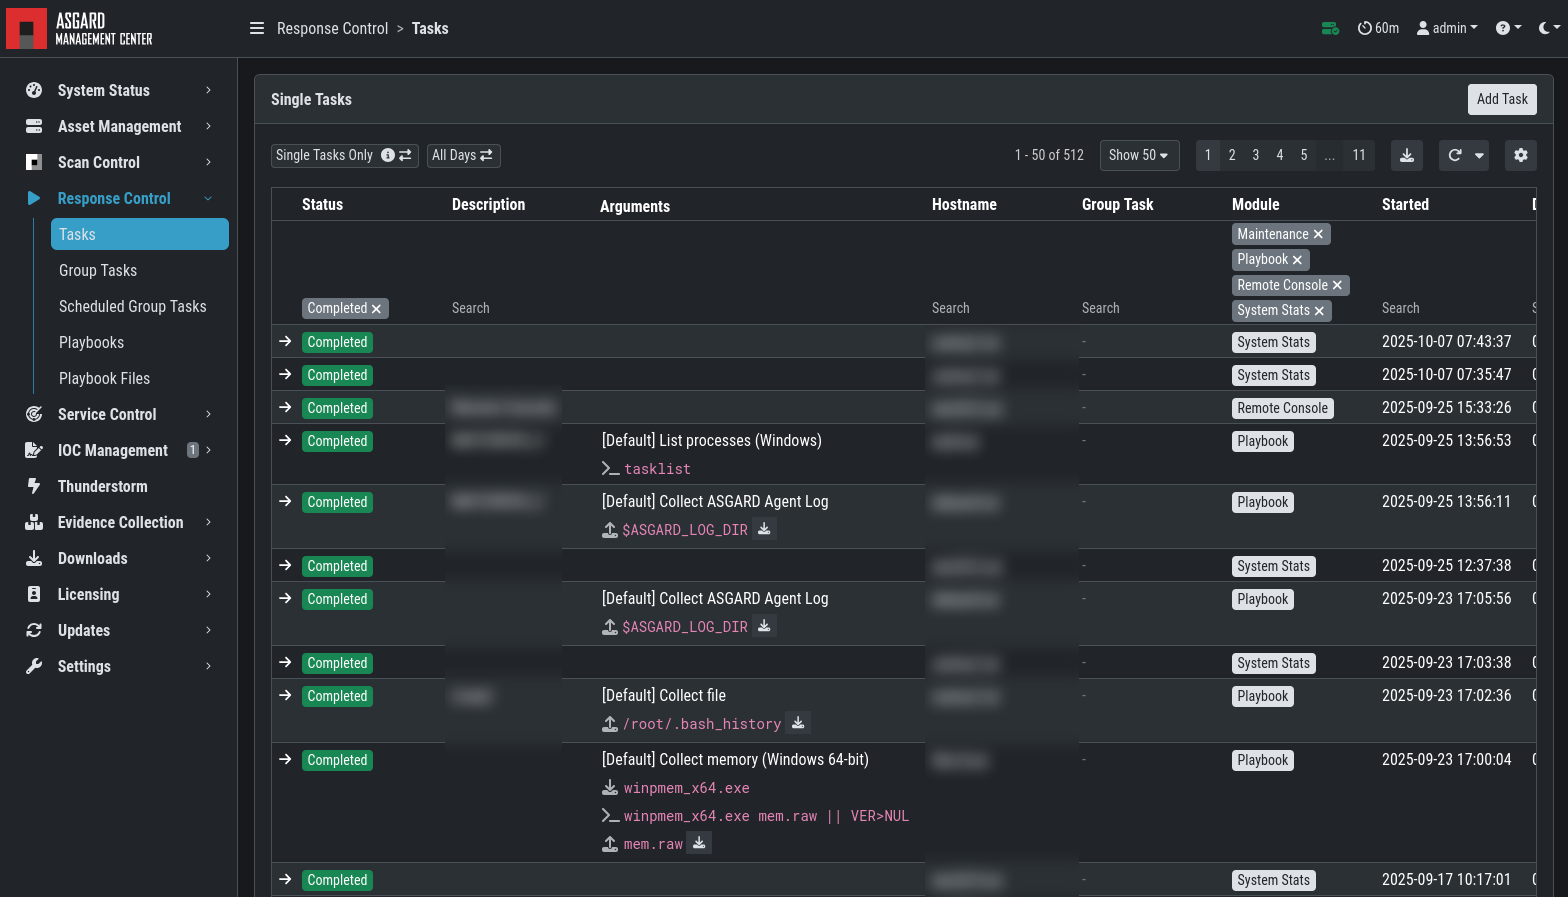
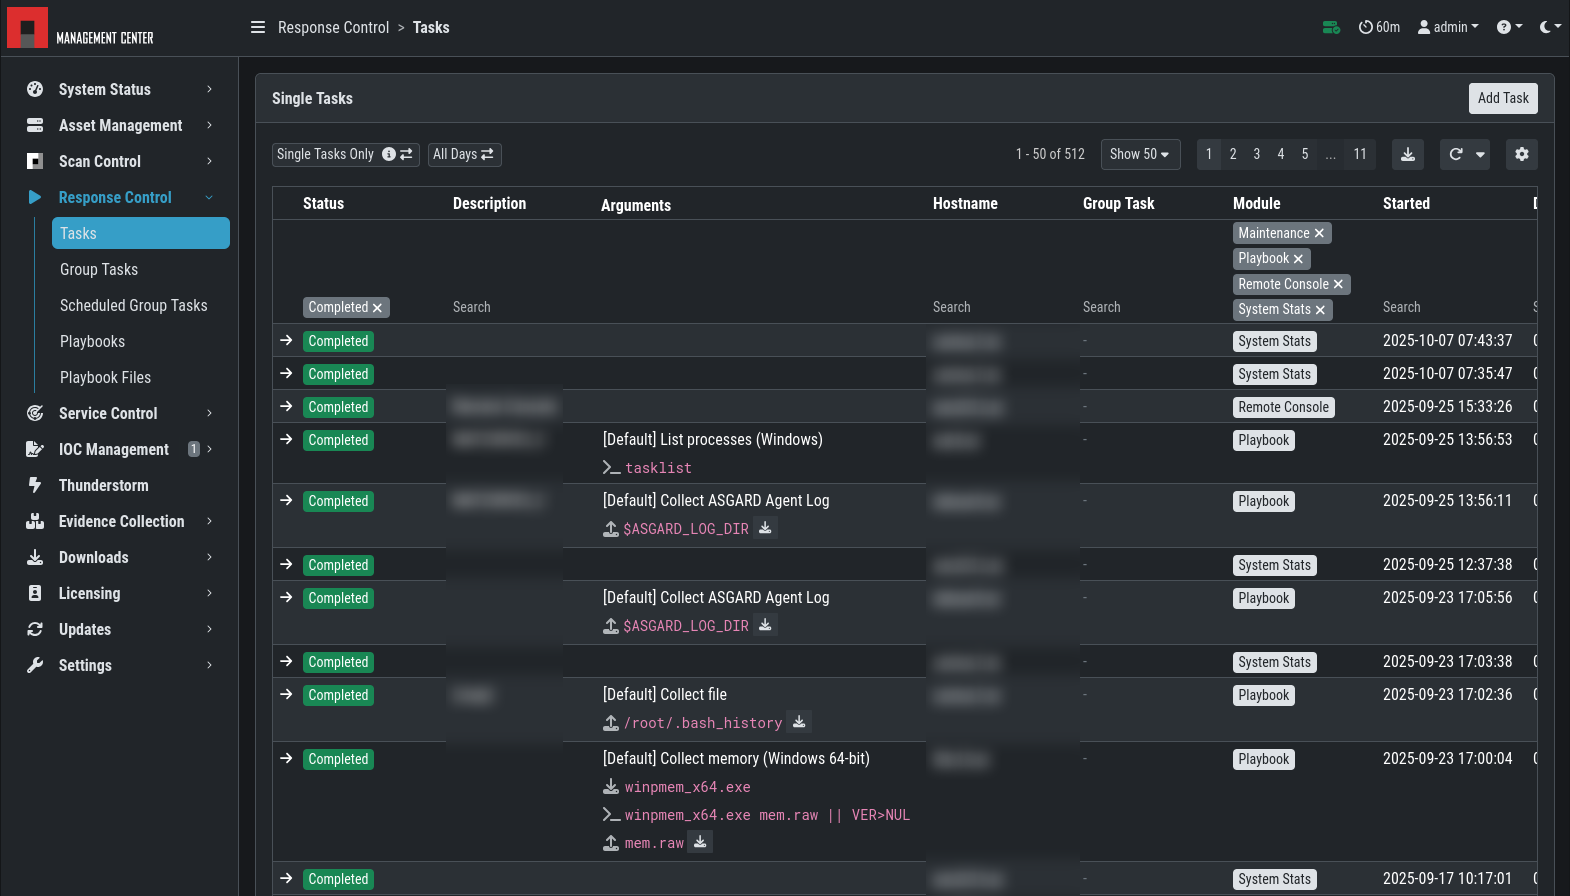
chore: update flags
chore: update screenshots

diff --git a/core/licensing.rst b/core/licensing.rst
@@ -114,6 +114,15 @@ network share with one THOR copy that already includes all required
 licenses. Another use case is :ref:`deployment/thor-remote:Thor Remote`,
 which requires a license for every remote system you plan to scan.
 
+Licenses that THOR retrieves at scan start from a
+:ref:`core/licensing:management center` or the
+:ref:`core/licensing:customer portal` are stored in the program folder
+as ``<hostname>.lic``, so that subsequent scans can run without the
+retrieval parameters. If a valid license for the host is already
+present, no new license is downloaded or issued. If the retrieval
+parameters are used again without a local license file, THOR downloads
+the existing valid license instead of issuing a new one.
+
 License Injection via Environment
 ^^^^^^^^^^^^^^^^^^^^^^^^^^^^^^^^^
 
@@ -152,11 +161,12 @@ your Management Center.
    Downloads > Download Token Configuration
 
 THOR can retrieve an appropriate license at scan start using the
-built-in ``--asgard-host`` and ``--asgard-token`` parameters.
+built-in ``--management-center-host`` and ``--management-center-token``
+parameters.
 
 .. code-block:: doscon
 
-   C:\temp\thor>thor64.exe --asgard-host mgmt-center.internal --asgard-token OCU92GW1CyOJLzaHkGrim1v2O0_ZkHPu0A
+   C:\temp\thor>thor64.exe --management-center-host mgmt-center.internal --management-center-token OCU92GW1CyOJLzaHkGrim1v2O0_ZkHPu0A
 
 If everything works as expected, you will see an INFO-level message in
 the output similar to the following:
@@ -208,6 +218,9 @@ The portal key (API key) can be configured in the
 
    Settings > API Key
 
+The ``--portal-api-key`` parameter accepts either the API key of your
+portal user or a download token for one of your contracts.
+
 THOR can retrieve an appropriate license at scan start using the
 built-in ``--portal-api-key`` and ``--portal-contracts`` parameters.
 The ``--portal-contracts`` parameter is optional. Use it if you want
@@ -236,6 +249,13 @@ in the output similar to the following:
 .. code-block:: none
 
    Info License file found LICENSE: portal.nextron-systems.com OWNER: ACME Inc TYPE: Workstation STARTS: 2021/06/23 EXPIRES: 2021/06/30 SCANNER: All Scanners VALID: true REASON:
+
+.. attention::
+   If no valid license is found for the host, the portal issues a new
+   one. You can prevent this with the ``--portal-existing-license``
+   flag: THOR then exits instead of issuing a new license. This is
+   useful if you want to avoid over-issuing licenses within your
+   contracts.
 
 You can specify a proxy by setting the ``HTTP_PROXY`` and
 ``HTTPS_PROXY`` environment variables, for example to

diff --git a/core/flags.rst b/core/flags.rst
@@ -185,7 +185,7 @@ Scan Options
 
 
            See also:
-             --asgard-host
+             --management-center-host
              --vt-key
              --portal-api-key
              --no-system-ca
@@ -840,37 +840,41 @@ License Retrieval
 
            Look for a license in the specified directory.
 
-           If no license is found, THOR will try alternative methods (ASGARD or Portal).
+           If no license is found, THOR will try alternative methods (Management Center or Portal).
 
            **Example**::
 
               --license-path /etc/thor
 
---asgard-host <host>
+--management-center-host <host>
 
-           Download a license from the specified ASGARD server if no local license is found.
+           Download a license from the specified Management Center server if no local license is found.
 
-           Alias:
+           Aliases:
+             --management-center
+             --asgard-host
              --asgard
 
            **Examples**::
 
-             --asgard-host asgard.my-company.internal
-             --asgard-host 10.121.1.13
+             --management-center-host mgmt-center.my-company.internal
+             --management-center-host 10.121.1.13
 
---asgard-token <token>
+--management-center-token <token>
 
-           Use this token to authenticate with the License API of the ASGARD server.
+           Use this token to authenticate with the License API of the Management Center server.
 
-           The token can be found in the 'Downloads' or 'Licensing' section in the ASGARD.
+           The token can be found in the 'Downloads' or 'Licensing' section of the Management Center.
 
-           **Example**::
+           Alias:
+             --asgard-token
 
-              --asgard-token 1234567890abcdef
+           Example:
+             --asgard-token 1234567890abcdef
 
 
            See also:
-             --asgard-host
+             --management-center-host
 
 --portal-api-key <key>
 

diff --git a/deployment/thor-remote.rst b/deployment/thor-remote.rst
@@ -76,8 +76,11 @@ scanning feature, for example the administrator workstation used as the
 source system.
 
 .. hint::
-   You can pair THOR Remote with the :ref:`core/licensing:customer portal`
-   options available within THOR, to make deployment easier.
+   You can pair THOR Remote with the license retrieval options available
+   within THOR (:ref:`core/licensing:management center` and
+   :ref:`core/licensing:customer portal`), to make deployment easier. In
+   that case, all licenses are downloaded to the host that runs the
+   initial THOR Remote command.
 
 Output
 ^^^^^^
